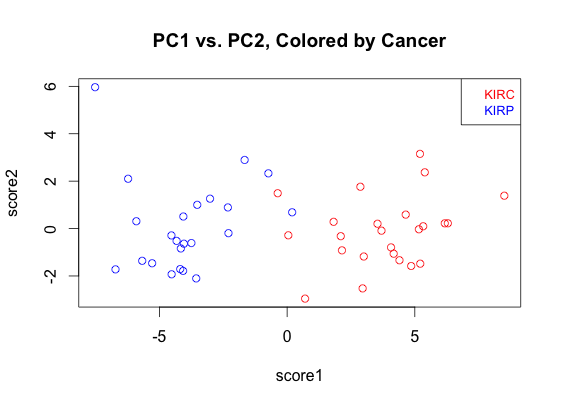
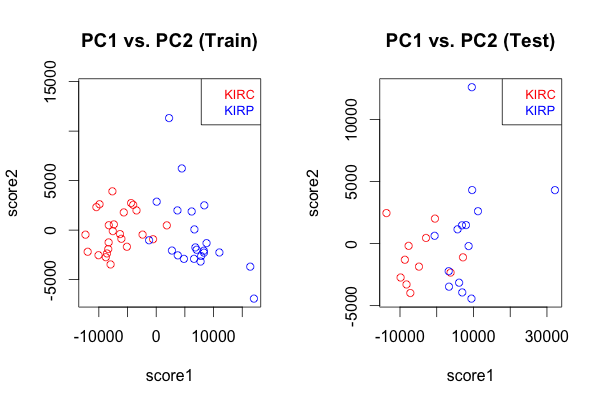
final pcplot

diff --git a/paper/kidney.tex b/paper/kidney.tex
@@ -139,17 +139,11 @@ subjects in the test set.
 
 \begin{figure}[H]
   \centering
-    \includegraphics[width=.8\textwidth]{../../fig/pcplot_train.png}
-\caption{PCA train data}
-   \label{fig:pcatrain}
+    \includegraphics[width=.8\textwidth]{../../fig/pcplot.png}
+\caption{PCA }
+   \label{fig:pca}
 \end{figure}
 
-\begin{figure}[H]
-  \centering
-    \includegraphics[width=.8\textwidth]{../../fig/pcplot_test.png}
-\caption{PCA test data}
-   \label{fig:pcatest}
-\end{figure}
 
 \begin{figure}[H]
   \centering
